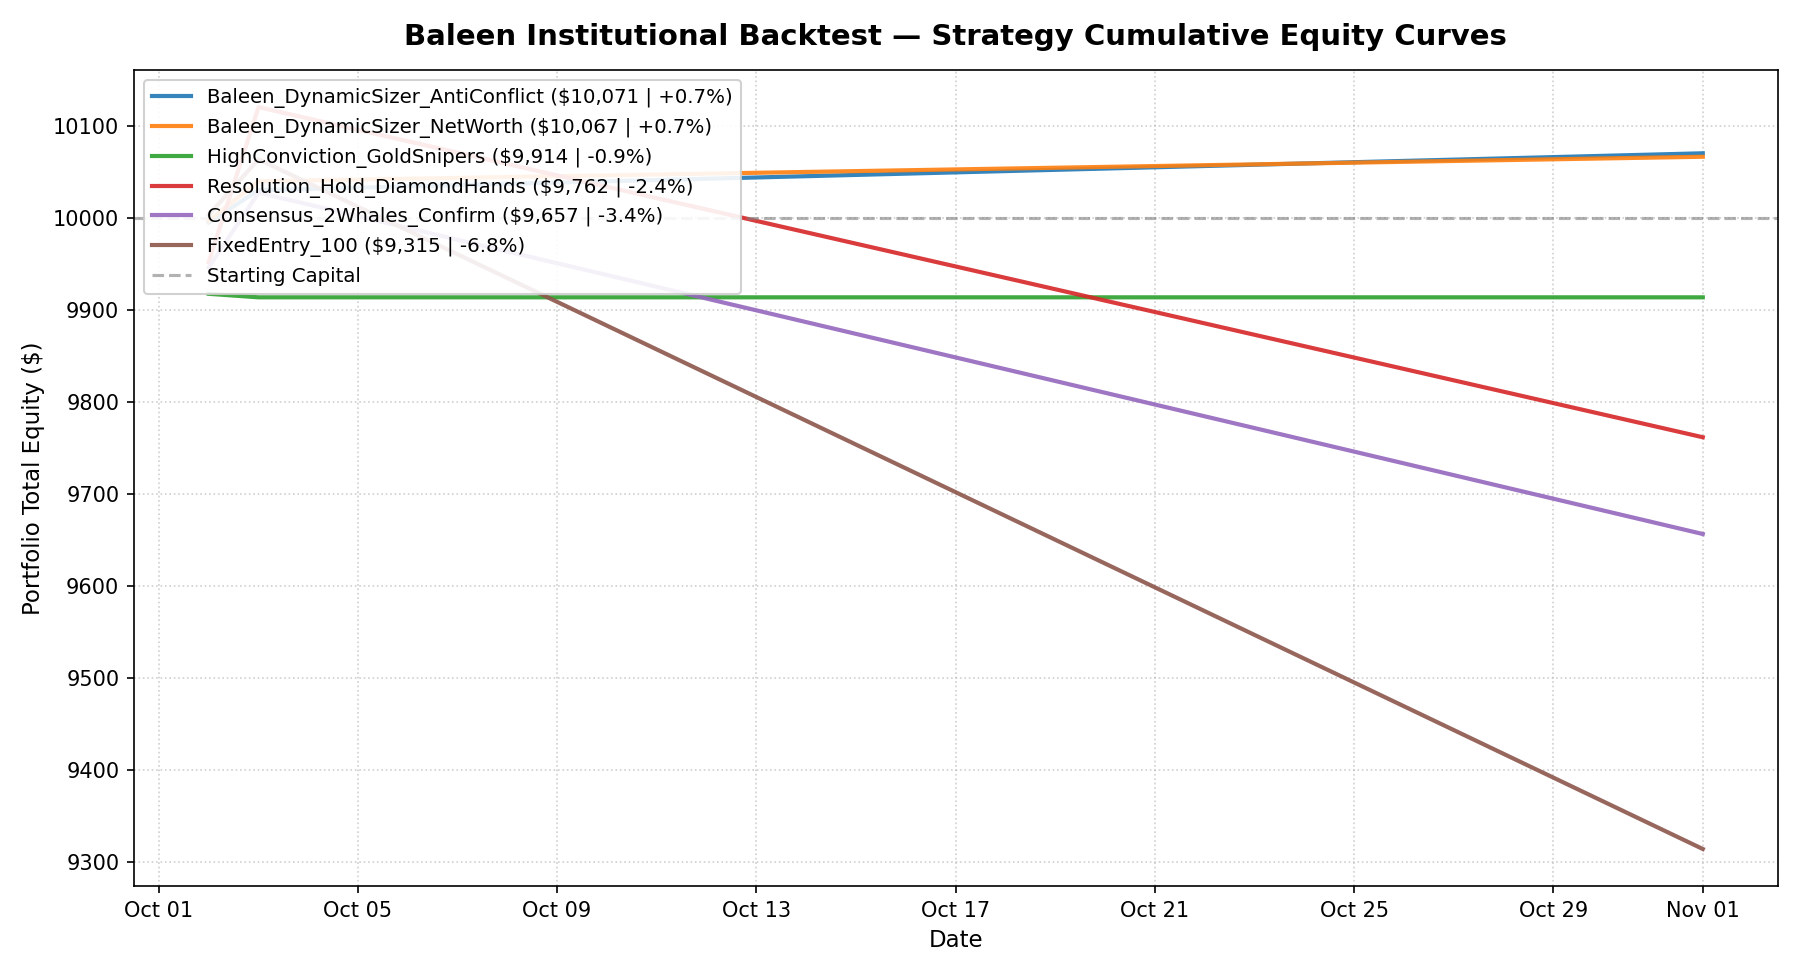
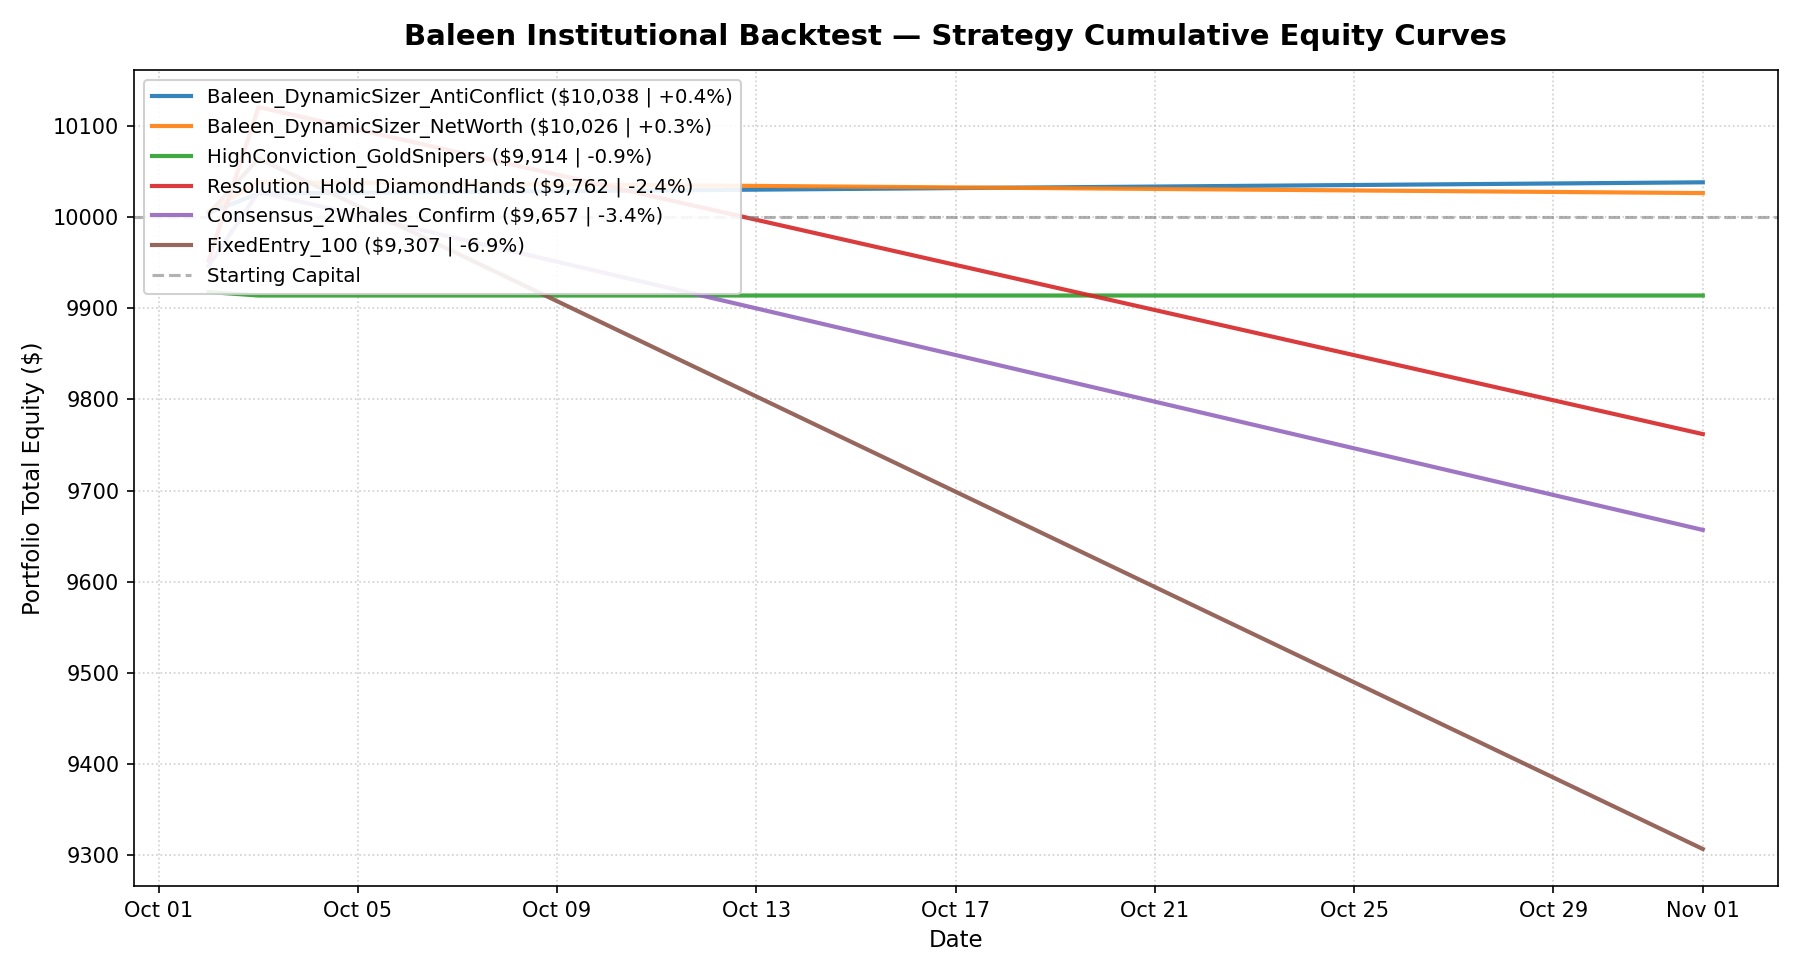
fix(backtesting): correct whale net worth unrealized pnl tracking, dynamic anti-conflict gating, and chart artifacts

diff --git a/backend/tests/test_backtesting_system.py b/backend/tests/test_backtesting_system.py
@@ -5,7 +5,7 @@ sleeve budgeting, market resolutions, and strategy implementations.
 """
 import pytest
 from app.backtesting.config import BacktestConfig
-from app.backtesting.models import TradeSignal, ExecutionFill, PortfolioPosition, ClosedTrade, BacktestResult
+from app.backtesting.models import TradeSignal, ExecutionFill, PortfolioPosition, ClosedTrade, BacktestResult, WhaleQualification
 from app.backtesting.execution import RealisticExecutionModel
 from app.backtesting.portfolio import SimulatedPortfolio
 from app.backtesting.strategies import (
@@ -914,13 +914,13 @@ def test_baleen_dynamic_sizer_strategy_tracks_net_worth_before_trade():
         nonusdc_side="token1"
     ))
 
-    # Whale held 10,000 shares, now valued at 0.70 = $7,000
-    # Base: 50,000, Realized: 0, Open equity: 7,000
-    # Net worth right before trade 2: 50,000 + 7,000 = 57,000
+    # Whale held 10,000 shares, now valued at 0.70 = $7,000 (cost basis = $5,000)
+    # Base: 50,000, Realized: 0, Unrealized paper gain: $7,000 - $5,000 = +$2,000
+    # Net worth right before trade 2: 50,000 + 2,000 = 52,000 (NOT double-counted $57,000)
     nw_before_2 = strat.get_whale_net_worth("0xwhale1")
-    assert nw_before_2 == 57000.0
+    assert nw_before_2 == 52000.0
 
-    # Trade 2: Whale bets $2,850 on m2 (2850 / 57000 = 5.0% risk)
+    # Trade 2: Whale bets $2,600 on m2 (2,600 / 52,000 = 5.0% risk)
     # Raw order = 1,000 * 5.0% = $50.0
     sig2 = TradeSignal(
         timestamp=1100,
@@ -930,12 +930,31 @@ def test_baleen_dynamic_sizer_strategy_tracks_net_worth_before_trade():
         token_id="tok2",
         side="BUY",
         whale_price=0.40,
-        whale_size_usd=2850.0,
-        whale_shares=7125.0,
+        whale_size_usd=2600.0,
+        whale_shares=6500.0,
         nonusdc_side="token1"
     )
     size2 = strat.evaluate_signal(sig2, portfolio)
     assert size2 == 50.0
+
+    # Simulate price drop on m2 token1 to 0.10 (paper loss)
+    strat.on_trade_signal(TradeSignal(
+        timestamp=1150,
+        whale_address="0xother",
+        market_id="m2",
+        condition_id="c2",
+        token_id="tok2",
+        side="BUY",
+        whale_price=0.10,
+        whale_size_usd=100.0,
+        whale_shares=1000.0,
+        nonusdc_side="token1"
+    ))
+    # m1: 10,000 * 0.70 = 7,000 (gain +2,000)
+    # m2: 6,500 * 0.10 = 650 (loss 650 - 2,600 = -1,950)
+    # Net worth: 50,000 + 2,000 - 1,950 = 50,050
+    nw_after_drop = strat.get_whale_net_worth("0xwhale1")
+    assert nw_after_drop == 50050.0
 
 
 def test_baleen_dynamic_sizer_strategy_realizes_pnl_on_whale_sell():
@@ -1049,6 +1068,46 @@ def test_baleen_dynamic_sizer_anti_conflict_gating():
     # Must be disqualified and skipped!
     assert res2 is None
     assert "0xhedger" in strat.disqualified_whales
+
+
+def test_baleen_dynamic_sizer_rejects_opposing_trade_on_same_market():
+    strat = BaleenDynamicSizerStrategy(enable_anti_conflict=True, max_conflict_tolerance=0.20)
+    config = BacktestConfig(initial_capital=10000.0)
+    portfolio = SimulatedPortfolio(config)
+
+    # Buy token1 on m1
+    sig1 = TradeSignal(
+        timestamp=1000,
+        whale_address="0xhedger",
+        market_id="m1",
+        condition_id="c1",
+        token_id="tok1",
+        side="BUY",
+        whale_price=0.50,
+        whale_size_usd=500.0,
+        whale_shares=1000.0,
+        nonusdc_side="token1"
+    )
+    s1 = strat.evaluate_signal(sig1, portfolio)
+    assert s1 is not None and s1 > 0
+
+    # Opposite buy token2 on m1 -> must be rejected even before exceeding global threshold
+    sig2 = TradeSignal(
+        timestamp=1050,
+        whale_address="0xhedger",
+        market_id="m1",
+        condition_id="c1",
+        token_id="tok2",
+        side="BUY",
+        whale_price=0.50,
+        whale_size_usd=500.0,
+        whale_shares=1000.0,
+        nonusdc_side="token2"
+    )
+    s2 = strat.evaluate_signal(sig2, portfolio)
+    assert s2 is None
+    # Whale buy was recorded in positions for accurate whale accounting
+    assert ("m1", "token2") in strat.whale_open_positions["0xhedger"]
 
 
 def test_generate_comparison_charts_creates_valid_images(tmp_path):

diff --git a/backend/app/backtesting/strategies.py b/backend/app/backtesting/strategies.py
@@ -485,19 +485,21 @@ class BaleenDynamicSizerStrategy(BaseStrategy):
     def get_whale_net_worth(self, whale_address: str) -> float:
         """
         Calculates whale's net worth right before the trade point:
-        initial_net_worth + cumulative_realized_pnl + open_position_equity
+        initial_net_worth + cumulative_realized_pnl + open_position_unrealized_pnl
+        where open_position_unrealized_pnl = sum(pos.shares * curr_p - pos.cost_basis)
         """
         clean = whale_address.lower()
         base = self.whale_initial_net_worth.get(clean, self.default_whale_net_worth)
         realized = self.whale_realized_pnl.get(clean, 0.0)
 
-        open_equity = 0.0
+        unrealized_pnl = 0.0
         positions = self.whale_open_positions.get(clean, {})
         for key, pos in positions.items():
             curr_p = self.latest_prices.get(key, pos.last_price or pos.avg_price)
-            open_equity += pos.shares * curr_p
+            curr_val = pos.shares * curr_p
+            unrealized_pnl += (curr_val - pos.cost_basis)
 
-        net_worth = base + realized + open_equity
+        net_worth = base + realized + unrealized_pnl
         return max(1000.0, net_worth)
 
     def on_trade_signal(self, signal: TradeSignal):
@@ -601,17 +603,30 @@ class BaleenDynamicSizerStrategy(BaseStrategy):
         # 1. Anti-Conflict Gating (if enabled)
         if self.enable_anti_conflict:
             if clean_w in self.disqualified_whales:
+                self._record_whale_buy(signal)
                 return None
 
             m_dict = self.whale_market_sides.setdefault(clean_w, {})
             m_key = signal.condition_id or signal.market_id
             sides = m_dict.setdefault(m_key, set())
+
+            # Skip opposing trades on the same market (hedging prevention)
+            if len(sides) > 0 and signal.nonusdc_side not in sides:
+                sides.add(signal.nonusdc_side)
+                conflicts = sum(1 for s in m_dict.values() if len(s) > 1)
+                total_mkts = max(1, len(m_dict))
+                if (conflicts / total_mkts) > self.max_conflict_tolerance:
+                    self.disqualified_whales.add(clean_w)
+                self._record_whale_buy(signal)
+                return None
+
             sides.add(signal.nonusdc_side)
 
             conflicts = sum(1 for s in m_dict.values() if len(s) > 1)
             total_mkts = max(1, len(m_dict))
             if conflicts >= 1 and (conflicts / total_mkts) > self.max_conflict_tolerance:
                 self.disqualified_whales.add(clean_w)
+                self._record_whale_buy(signal)
                 return None
 
         # 2. Track latest price for the token

diff --git a/backend/app/backtesting/runner.py b/backend/app/backtesting/runner.py
@@ -81,7 +81,7 @@ def main():
     try:
         # 1. Strategy Comparison
         print(">>> [1/3] RUNNING HEAD-TO-HEAD STRATEGY COMPARISON <<<")
-        logger.info(f"Evaluating 8 distinct strategy architectures on {period_label}...")
+        logger.info(f"Evaluating key strategy architectures on {period_label}...")
         results = optimizer.compare_strategies(
             start_ts=s_ts,
             end_ts=e_ts,
@@ -96,9 +96,12 @@ def main():
         print(f"   Net PnL: ${best.total_net_pnl:+,.2f} | ROI: {best.roi_pct:+.2f}% | Sharpe: {best.sharpe_ratio:.2f} | Max DD: {best.max_drawdown_pct:.1f}% | Win Rate: {best.win_rate_pct:.1f}%\n")
 
         # Generate & save comparison charts
-        brain_dir = "C:/Users/arthu/.gemini/antigravity/brain/3558f49c-622a-4113-ae69-0a73aba3f6a5"
         data_dir = os.path.join(backend_root, "data")
-        extra_dirs = [brain_dir] if os.path.exists(brain_dir) else []
+        extra_dirs = []
+        for cid in ["46b2eeba-fcaa-448d-b531-53aab065f8a0", "3558f49c-622a-4113-ae69-0a73aba3f6a5"]:
+            p = os.path.join("C:/Users/arthu/.gemini/antigravity/brain", cid)
+            if os.path.exists(p) and p not in extra_dirs:
+                extra_dirs.append(p)
         chart_files = generate_comparison_charts(results, output_dir=data_dir, extra_output_dirs=extra_dirs)
         print("[+] Generated strategy comparison graphs:")
         for k, p in chart_files.items():

diff --git a/backend/app/backtesting/optimizer.py b/backend/app/backtesting/optimizer.py
@@ -155,6 +155,8 @@ class StrategyOptimizer:
                 strat = FixedAmountEntryStrategy(entry_usd=eff_entry, name=f"FixedEntry_${int(eff_entry)}")
             elif strategy_type == "proportional":
                 strat = FixedProportionalStrategy(fraction=0.02, name=f"Proportional_2pct_Cap${int(cap)}")
+            elif strategy_type in ("dynamic", "baleen"):
+                strat = BaleenDynamicSizerStrategy(enable_anti_conflict=True, name=f"Baleen_DynamicSizer_Cap${int(cap)}")
             else:
                 strat = AdaptiveProductionStrategy(
                     ev_multiplier=2.5,
@@ -227,6 +229,8 @@ class StrategyOptimizer:
                 strat = FixedAmountEntryStrategy(entry_usd=entry_usd, name=f"FixedEntry_${int(entry_usd)}_{label[:6]}")
             elif strategy_type == "proportional":
                 strat = FixedProportionalStrategy(fraction=0.02, name=f"Proportional_2pct_{label[:6]}")
+            elif strategy_type in ("dynamic", "baleen"):
+                strat = BaleenDynamicSizerStrategy(enable_anti_conflict=True, name=f"Baleen_DynamicSizer_{label[:10]}")
             else:
                 strat = AdaptiveProductionStrategy(
                     ev_multiplier=2.5,

diff --git a/backend/app/backtesting/engine.py b/backend/app/backtesting/engine.py
@@ -136,13 +136,13 @@ class BacktestEngine:
                             self.strategy.on_trade_closed(closed_t)
 
             elif signal.side.upper() == "BUY":
-                # Max open position guard
-                if len(self.portfolio.open_positions) >= self.config.max_open_positions:
-                    continue
-
                 # Ask strategy for sizing
                 intended_usd = self.strategy.evaluate_signal(signal, self.portfolio)
                 if not intended_usd or intended_usd < self.config.min_trade_size_usd:
+                    continue
+
+                # Max open position guard
+                if len(self.portfolio.open_positions) >= self.config.max_open_positions:
                     continue
 
                 # Market concentration guard
